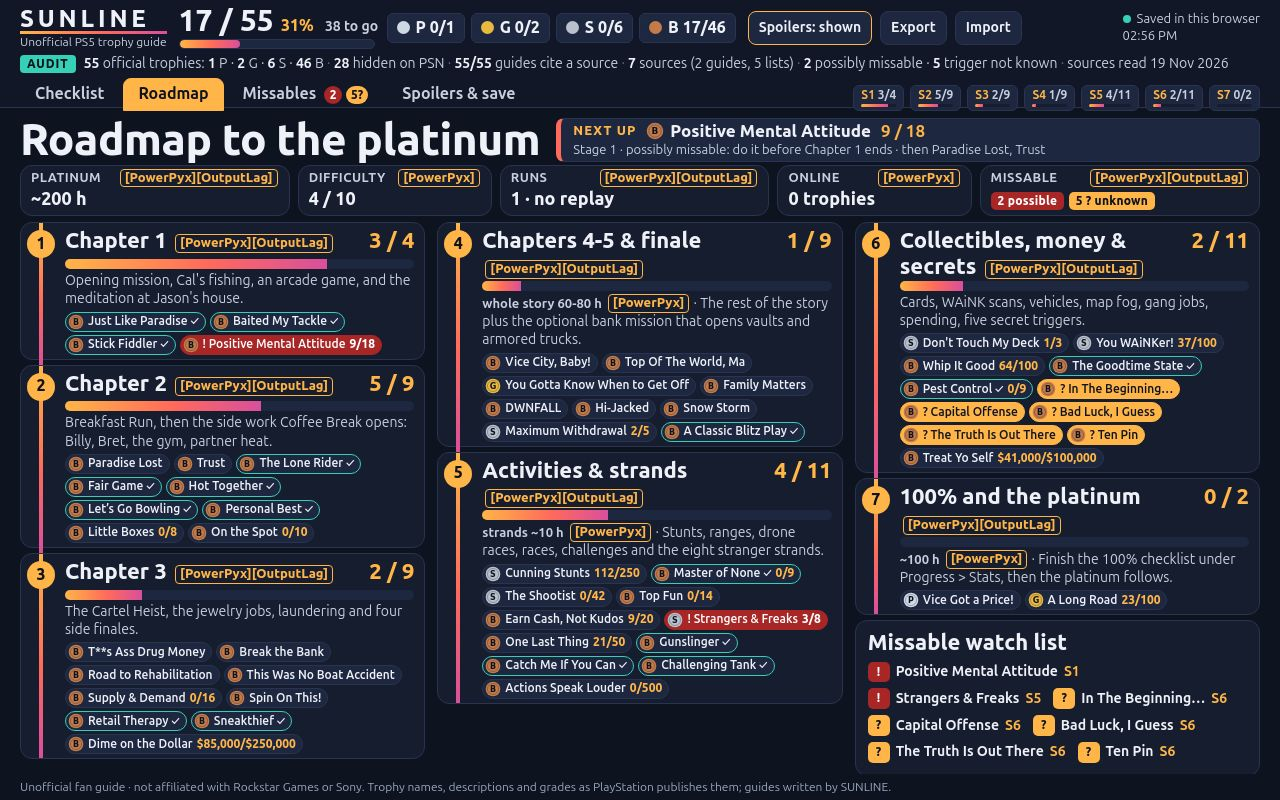
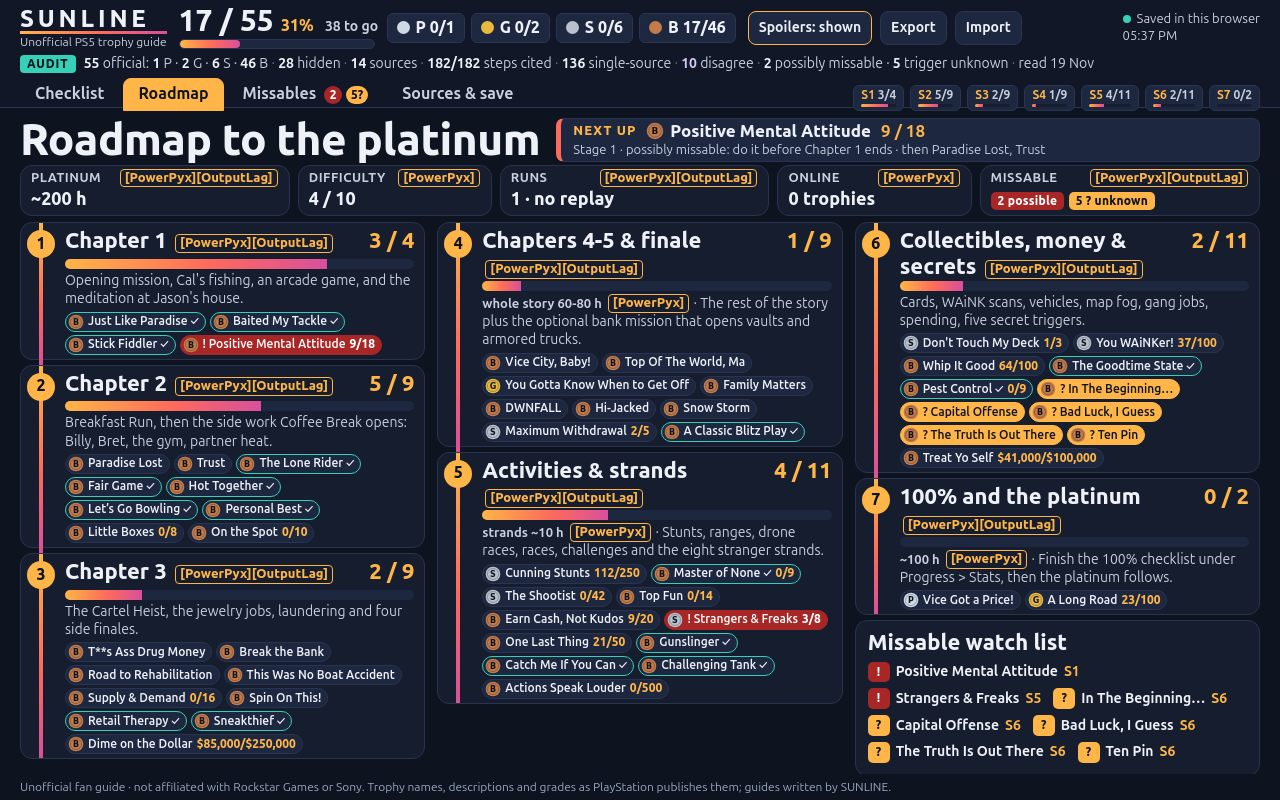
SUNLINE G5 C: Sources & save registry with a computed 'Counts as' column (independent witness / one witness with PowerPyx / never a confirmation) and guides citing per source, names linked; 'Where sources disagree' list beside it (10 trophies, both versions with their sources, masked names stay mask

Changed region(s): [[0.125, 0.0625, 0.9688, 0.125]]

diff --git a/app/js/views/sources-save-view.js b/app/js/views/sources-save-view.js
@@ -28,11 +28,32 @@ function registryRows(trophies, sources) {
     const cites = trophies.filter((t) => t.cites.some((c) => keys.includes(c.src))).length;
     const guide = src.some((s) => s.role === "guide");
     const lists = src.map((s) => s.lists).filter(Boolean).sort((a, b) => b.length - a.length)[0];
-    const use = guide
-      ? "Guide steps and the facts on hours, difficulty, replay and missable windows"
-      : `List cross-check of ${lists || "the official text"} only`;
-    return { name: src.map((s) => s.short).join(" + "), url: src[0].url, guide, use, cites, read: src[0].read };
+    const s0 = src[0];
+    const use = !guide
+      ? `List cross-check of ${lists || "the official text"} only`
+      : s0.group && s0.group !== s0.short || s0.confirms === false
+        ? s0.note
+        : "Steps; hours, replay, missable windows";
+    // Independence, from the data: aggregators and low-trust pages never confirm; near-copies and pages from the
+    // same publisher count as one witness with their group.
+    const counts = !guide ? "official text only"
+      : s0.confirms === false ? "never a confirmation"
+        : s0.group && s0.group !== s0.short ? `one witness with ${s0.group}` : "independent witness";
+    return { name: src.map((s) => s.short).join(" + "), url: s0.url, guide, use, counts, cites, read: s0.read };
   }).sort((a, b) => Number(b.guide) - Number(a.guide) || b.cites - a.cites);
+}
+
+// Every trophy where two sources give different versions, with both versions and their sources.
+function disagreeList(trophies, sources, progress) {
+  const names = (t, v) => v.cites.map((n) => sources[t.cites.find((c) => c.n === n)?.src]?.short).filter(Boolean)
+    .join(", ");
+  return trophies.filter((t) => t.disagree?.length).map((t) => {
+    const name = isSpoilerMasked(t, progress) ? "Story trophy (hidden until earned)" : t.name;
+    const pts = t.disagree.map((d) => `<li><b>${esc(d.on)}:</b> ` +
+      d.versions.map((v) => `${esc(v.says.replace(/\.$/, ""))} <i>(${esc(names(t, v))})</i>`).join(" <em>vs</em> ") +
+      `</li>`).join("");
+    return `<li><span class="dl-name">${esc(name)}</span><ul>${pts}</ul></li>`;
+  });
 }
 
 export function renderSourcesSave(state) {
@@ -61,10 +82,11 @@ export function renderSourcesSave(state) {
   }).join("");
   const rows = registryRows(trophies, sources);
   const reg = rows.map((r) =>
-    `<tr><th scope="row">${esc(r.name)}<span class="reg-role ${r.guide ? "is-guide" : "is-list"}">` +
-    `${r.guide ? "guide" : "list cross-check"}</span></th>` +
-    `<td><a href="${esc(r.url)}" rel="noopener">${esc(new URL(r.url).hostname.replace(/^www\./, ""))}</a></td>` +
-    `<td>${esc(r.use)}</td><td class="num">${r.cites}</td><td>${r.read ? readDate(r.read) : "not recorded"}</td></tr>`).join("");
+    `<tr><th scope="row"><a href="${esc(r.url)}" rel="noopener">${esc(r.name)}</a>` +
+    `<span class="reg-role ${r.guide ? "is-guide" : "is-list"}">${r.guide ? "guide" : "list"}</span></th>` +
+    `<td>${esc(r.use)}</td><td class="reg-counts ${r.counts === "independent witness" ? "is-ind" : ""}">${esc(r.counts)}</td>` +
+    `<td class="num">${r.cites}</td><td>${r.read ? readDate(r.read).replace(/ \d{4}$/, "") : "not recorded"}</td></tr>`).join("");
+  const dis = disagreeList(trophies, sources, progress);
 
   el.innerHTML = `
 <header class="sp-head"><h1 class="sp-title">Sources &amp; save</h1>
@@ -84,10 +106,13 @@ export function renderSourcesSave(state) {
 <section class="sp-card" aria-label="Progress by grade"><h2>By grade</h2><ul class="pm-list">${grades}</ul></section>
 <section class="sp-card" aria-label="Progress by kind"><h2>By kind</h2><ul class="pm-list">${kinds}</ul></section>
 </div>
-<section class="sp-reg" aria-label="Sources registry"><h2>Sources registry <small>${rows.length} sources ·
-cite counts and read dates come from the data</small></h2>
-<table><thead><tr><th>Source</th><th>Link</th><th>What SUNLINE used it for</th><th class="num">Guides citing</th>
+<div class="sp-regwrap"><section class="sp-reg" aria-label="Sources registry"><h2>Sources registry <small>${rows.length}
+sources · counts, independence and read dates come from the data</small></h2>
+<table><thead><tr><th>Source</th><th>What SUNLINE used it for</th><th>Counts as</th><th class="num">Guides citing</th>
 <th>Read</th></tr></thead><tbody>${reg}</tbody></table>
-<p class="sp-note">Sources we could not read (Push Square, KeenGamer) are not listed. Hidden-on-PSN flags and the
-official list share one Exophase page, so they are one row.</p></section>`;
+<p class="sp-note">Not listed: pages we could not read (Push Square, KeenGamer, TrueTrophies, TrueAchievements,
+PlayStationTrophies) and sites whose robots.txt bars us. The official list and the hidden flags share one Exophase
+page, so they are one row.</p></section>
+<section class="sp-dis" aria-label="Where sources disagree"><h2>Where sources disagree <small>${dis.length}
+trophies · both versions kept</small></h2><ol class="dis-list">${dis.join("")}</ol></section></div>`;
 }

diff --git a/app/css/sunline.css b/app/css/sunline.css
@@ -844,8 +844,26 @@ body[data-route="roadmap"] .view, body[data-route="missables"] .view { grid-temp
 .pm b { font-size: 17px; }
 .pm-bar { grid-column: 1 / -1; height: 7px; border-radius: 4px; background: var(--page); overflow: hidden; }
 .pm-bar span { display: block; height: 100%; background: var(--teal); }
-.sp-reg { margin-top: 12px; }
-.sp-reg h2 small { text-transform: none; letter-spacing: 0; color: var(--desc); font-weight: 400; font-size: 14px; }
+.sp-regwrap { display: grid; grid-template-columns: minmax(0, 1fr) 400px; gap: 12px; margin-top: 12px;
+  align-items: start; }
+.sp-reg { margin-top: 0; }
+.sp-regwrap .sp-reg table { font-size: 14px; }
+.sp-regwrap .sp-reg th, .sp-regwrap .sp-reg td { padding: 2px 6px; white-space: nowrap; }
+.sp-regwrap .sp-reg td:nth-child(2), .sp-regwrap .sp-reg thead th { white-space: normal; }
+.sp-reg h2 small, .sp-dis h2 small { text-transform: none; letter-spacing: 0; color: var(--desc); font-weight: 400;
+  font-size: 14px; }
+.sp-reg tbody th a { color: var(--text); }
+.reg-counts { color: var(--desc); white-space: nowrap; }
+.reg-counts.is-ind { color: var(--teal); font-weight: 700; }
+.sp-dis { border: 1px solid var(--line); border-left: 5px solid #b69cff; border-radius: 10px; background: #221d36;
+  padding: 10px 14px; }
+.sp-dis h2 { margin: 0 0 4px; font-size: 15px; letter-spacing: 0.08em; text-transform: uppercase; color: #d6c8ff; }
+.dis-list { margin: 0; padding-left: 20px; font-size: 14px; line-height: 1.3; }
+.dis-list > li { margin-top: 5px; }
+.dis-list .dl-name { font-weight: 800; color: var(--text); }
+.dis-list ul { margin: 1px 0 0; padding-left: 0; list-style: none; color: var(--desc); }
+.dis-list i { font-style: normal; color: #d6c8ff; }
+.dis-list em { font-style: normal; font-weight: 800; color: var(--amber); }
 .sp-reg table { width: 100%; border-collapse: collapse; font-size: 15px; }
 .sp-reg th, .sp-reg td { text-align: left; padding: 4px 8px; border-bottom: 1px solid var(--line); vertical-align: top; }
 .sp-reg thead th { font-size: 13px; color: var(--desc); text-transform: uppercase; letter-spacing: 0.05em; }
